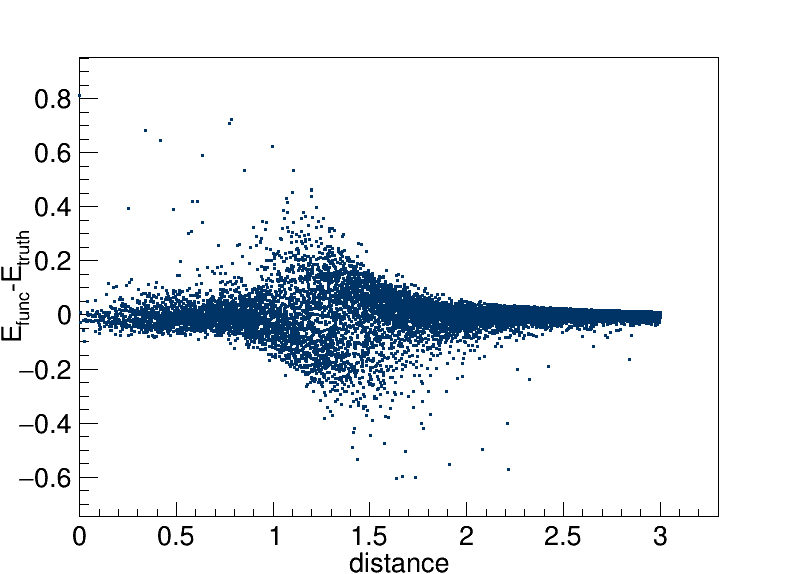
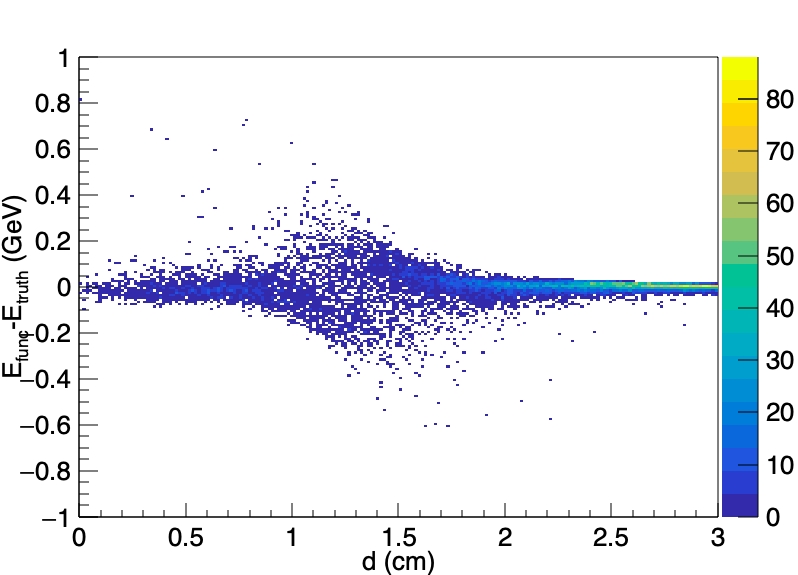
Backup: 2021年 1月23日 星期六 19时10分43秒 CST

Changed region(s): [[0.0, 0.0889, 1.0, 1.0], [0.0902, 0.9181, 0.1203, 0.9477], [0.0602, 0.8885, 0.0902, 0.9181]]

diff --git a/Fit_DigiEnergy_cp.C b/Fit_DigiEnergy_cp.C
@@ -21,8 +21,8 @@ int Fit_DigiEnergy_cp(std::string dir_name, const char title[30], Int_t NO_Angle
     std::ofstream par_file;
     par_file.open(out_name,std::ios::app);
     
-    TCanvas* c1=new TCanvas("PANDA1","test1",800,600);
     TCanvas* c2=new TCanvas("PANDA2","test2",800,600);
+    TCanvas* c1=new TCanvas("PANDA1","test1",800,600);
     gStyle->SetOptTitle(0);
     gStyle->SetStatX(0.36);
     gStyle->SetStatY(0.88);
@@ -103,6 +103,16 @@ int Fit_DigiEnergy_cp(std::string dir_name, const char title[30], Int_t NO_Angle
     g_Error->GetXaxis()->SetTitle("distance");
     g_Error->GetXaxis()->CenterTitle();
     g_Error->GetYaxis()->CenterTitle();
+    
+    TH2D* h_Error = new TH2D("Hist_Error","h_Error",200,0,distance_cut,200,-Energy,Energy);
+    h_Error->SetMarkerStyle(7);
+    h_Error->SetMarkerColorAlpha(kAzure+3, 0.5);
+    h_Error->GetYaxis()->SetTitle("E_{func}-E_{truth} (GeV)");
+    h_Error->GetXaxis()->SetTitle("d (cm)");
+    h_Error->GetXaxis()->CenterTitle();
+    h_Error->GetYaxis()->CenterTitle();
+    h_Error->GetZaxis()->CenterTitle();
+    
     in_file.clear();
     in_file.seekg(0, ios::beg);
     N = 0;
@@ -111,11 +121,13 @@ int Fit_DigiEnergy_cp(std::string dir_name, const char title[30], Int_t NO_Angle
         float distance, angle, energy;
         strStream >> distance >> angle >> energy;
         if (distance > distance_cut) continue;
-        g_Error->SetPoint(N,distance,(FABC(distance,f->GetParameter(0),f->GetParameter(1),f->GetParameter(2),f->GetParameter(3),f->GetParameter(4))-energy));
+        //g_Error->SetPoint(N,distance,(FABC(distance,f->GetParameter(0),f->GetParameter(1),f->GetParameter(2),f->GetParameter(3),f->GetParameter(4))-energy));
+        h_Error->Fill(distance,(FABC(distance,f->GetParameter(0),f->GetParameter(1),f->GetParameter(2),f->GetParameter(3),f->GetParameter(4))-energy));
         N++;
     }
     c2->cd();
-    g_Error->Draw("AP.");
+    //g_Error->Draw("AP.");
+    h_Error->Draw("PCOLZ");
     TString picture_name_error= "doc/A"+str_NO_Angle+"_FitPicture_cp/Error_A"+str_NO_Angle+"_E"+str_Energy+"_FitPar_cp.png";
     c2->Print(picture_name_error);
     
